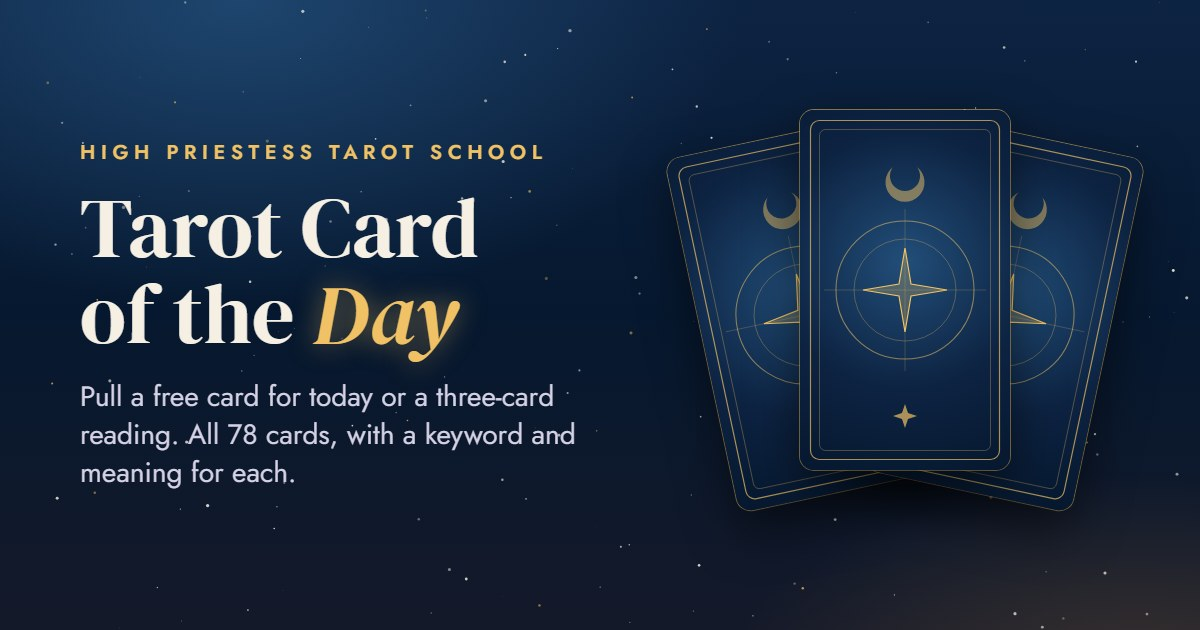
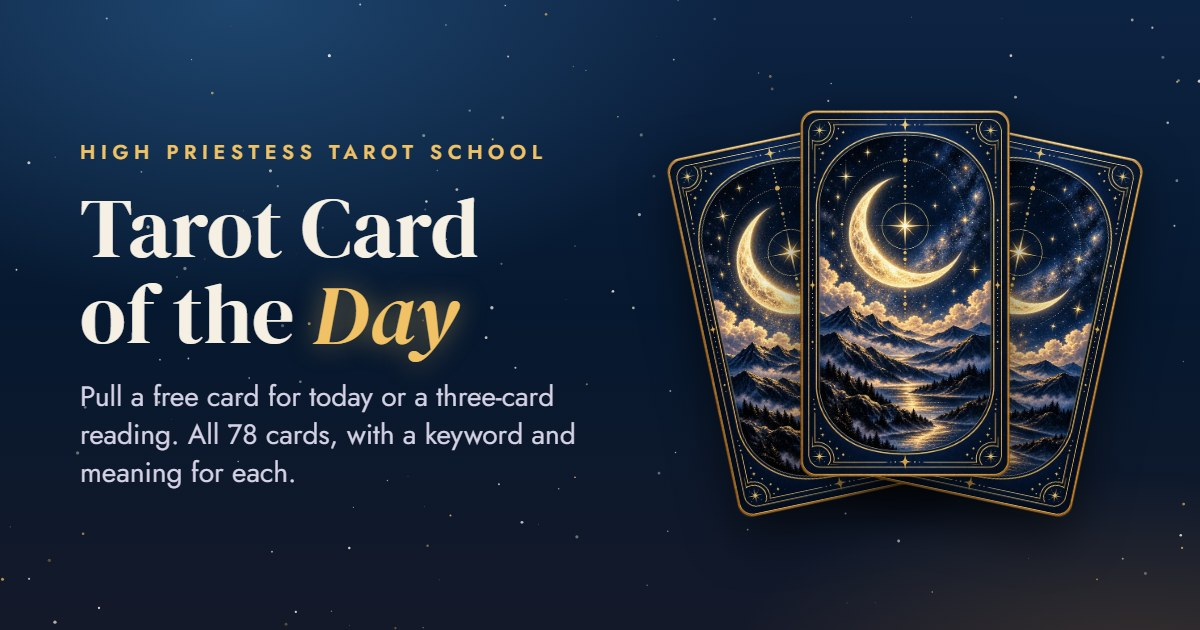
Card of the Day: Sunny's card back, new fronts

Changed region(s): [[0.555, 0.1508, 0.9558, 0.8444]]

diff --git a/hpts/card-of-the-day/index.html b/hpts/card-of-the-day/index.html
@@ -91,25 +91,28 @@ button:focus-visible, input:focus-visible, .card:focus-visible { outline: 2px so
 .slot-label { font-size: 13px; letter-spacing: .22em; text-transform: uppercase; color: var(--gold); font-weight: 600; }
 .single .slot { flex-basis: 250px; }
 
-.card { width: 100%; max-width: 100%; aspect-ratio: 7 / 12; perspective: 1200px; cursor: pointer; border-radius: 14px; }
+.card { width: 100%; max-width: 100%; aspect-ratio: 520 / 909; perspective: 1200px; cursor: pointer; border-radius: 6% / 3.4%; container-type: inline-size; }
 .card .inner { position: relative; width: 100%; height: 100%; transition: transform .9s cubic-bezier(.3, .7, .2, 1); transform-style: preserve-3d; }
 .card.flipped .inner { transform: rotateY(180deg); }
 .card.flipped { cursor: default; }
 .face, .back {
-  position: absolute; inset: 0; border-radius: 14px; backface-visibility: hidden; -webkit-backface-visibility: hidden;
-  box-shadow: 0 18px 40px rgba(0, 0, 0, .45), 0 0 0 1px rgba(240, 194, 101, .5);
+  position: absolute; inset: 0; border-radius: 6% / 3.4%; backface-visibility: hidden; -webkit-backface-visibility: hidden;
+  box-shadow: 0 18px 40px rgba(0, 0, 0, .5);
   overflow: hidden;
 }
-.back { background: radial-gradient(circle at 50% 42%, var(--sea), var(--deep) 55%, var(--night)); }
-.back svg, .face svg.frame { position: absolute; inset: 0; width: 100%; height: 100%; }
+.back img { width: 100%; height: 100%; display: block; user-select: none; -webkit-user-drag: none; }
 .card:not(.flipped):hover .inner { transform: translateY(-6px); }
-.face { transform: rotateY(180deg); background: radial-gradient(ellipse at 50% 30%, var(--sea), var(--deep) 50%, var(--night)); display: flex; }
-.face .art { position: absolute; inset: 0; display: flex; flex-direction: column; align-items: center; justify-content: space-between; padding: 12% 10% 9%; text-align: center; }
+.face { transform: rotateY(180deg); background: var(--night); }
+.face svg.frame { position: absolute; inset: 0; width: 100%; height: 100%; display: block; }
+.face .art { position: absolute; inset: 0; }
 .face.rev .art { transform: rotate(180deg); }
-.face .num { font-family: var(--serif); color: var(--gold); font-size: clamp(14px, 2.4vw, 22px); letter-spacing: .12em; }
-.face .sym { width: 52%; aspect-ratio: 1; color: var(--gold); }
-.face .sym svg { width: 100%; height: 100%; display: block; }
-.face .nm { font-family: var(--serif); color: var(--cream); font-size: clamp(13px, 2.3vw, 20px); line-height: 1.15; font-weight: 400; text-wrap: balance; }
+.face .art > * { position: absolute; left: 14%; right: 14%; margin: 0; text-align: center; }
+.face .num { top: 12.4%; font-family: var(--sans); font-weight: 500; font-size: 6.2cqw; letter-spacing: .32em; padding-left: .32em; color: var(--honey); text-transform: uppercase; }
+.face .sym { top: 22.6%; left: 31%; right: 31%; aspect-ratio: 1; }
+.face .sym svg { width: 100%; height: 100%; display: block; filter: drop-shadow(0 0 4cqw rgba(240, 194, 101, .35)); }
+.face .nm { top: 57.5%; font-family: var(--serif); font-size: 10cqw; line-height: 1.04; color: var(--cream); text-wrap: balance; }
+.face .kw { top: 72.5%; font-family: var(--serif); font-style: italic; font-size: 7.4cqw; line-height: 1.1; color: var(--honey); text-shadow: 0 0 3cqw rgba(240, 194, 101, .45); }
+.face .meta { top: 80.5%; font-family: var(--sans); font-weight: 500; font-size: 4.1cqw; letter-spacing: .16em; line-height: 1.5; text-transform: uppercase; color: var(--peri); text-wrap: balance; }
 .empty .card { cursor: default; opacity: .35; }
 
 .actions { display: flex; flex-direction: column; align-items: center; gap: 10px; }
@@ -189,6 +192,7 @@ footer a:hover { color: var(--cream); }
 </head>
 <body>
 <canvas id="sky" aria-hidden="true"></canvas>
+<svg width="0" height="0" style="position:absolute" aria-hidden="true"><defs><linearGradient id="hg" x1="0" y1="0" x2="1" y2="1"><stop offset="0" stop-color="#F7DE95"/><stop offset=".5" stop-color="#F0C265"/><stop offset="1" stop-color="#B07A35"/></linearGradient></defs></svg>
 <main class="wrap">
   <header>
     <div class="eyebrow">Free from High Priestess Tarot School</div>
@@ -327,15 +331,15 @@ const DECK = DATA.split("\n").map((line, i) => {
 });
 
 const ICONS = {
-  major: '<svg viewBox="0 0 100 100" fill="none" stroke="currentColor" stroke-width="1.6"><circle cx="50" cy="50" r="44" opacity=".45"/><circle cx="50" cy="50" r="33" opacity=".3"/><path d="M50 10 L56 44 L90 50 L56 56 L50 90 L44 56 L10 50 L44 44 Z" fill="currentColor" fill-opacity=".18"/><circle cx="50" cy="50" r="3" fill="currentColor"/></svg>',
-  wands: '<svg viewBox="0 0 100 100" fill="none" stroke="currentColor" stroke-width="1.8" stroke-linecap="round"><path d="M38 90 L62 12"/><path d="M57 28 C66 22 72 24 74 30 C66 34 61 33 57 28 Z" fill="currentColor" fill-opacity=".25"/><path d="M50 52 C41 47 35 50 34 56 C42 59 47 57 50 52 Z" fill="currentColor" fill-opacity=".25"/><path d="M44 70 C52 66 58 68 59 74 C52 77 47 75 44 70 Z" fill="currentColor" fill-opacity=".25"/><circle cx="62" cy="12" r="3" fill="currentColor"/></svg>',
-  cups: '<svg viewBox="0 0 100 100" fill="none" stroke="currentColor" stroke-width="1.8" stroke-linejoin="round"><path d="M26 18 H74 C74 44 64 56 50 56 C36 56 26 44 26 18 Z" fill="currentColor" fill-opacity=".18"/><path d="M50 56 V78"/><path d="M34 86 C38 79 62 79 66 86 Z" fill="currentColor" fill-opacity=".25"/><path d="M34 27 C40 31 60 31 66 27" opacity=".6"/></svg>',
-  swords: '<svg viewBox="0 0 100 100" fill="none" stroke="currentColor" stroke-width="1.8" stroke-linejoin="round" stroke-linecap="round"><path d="M50 8 L56 22 V66 H44 V22 Z" fill="currentColor" fill-opacity=".18"/><path d="M30 66 H70"/><path d="M50 66 V84"/><circle cx="50" cy="89" r="4" fill="currentColor" fill-opacity=".4"/><path d="M50 26 V60" opacity=".5"/></svg>',
-  pentacles: '<svg viewBox="0 0 100 100" fill="none" stroke="currentColor" stroke-width="1.8" stroke-linejoin="round"><circle cx="50" cy="50" r="40" fill="currentColor" fill-opacity=".1"/><circle cx="50" cy="50" r="34" opacity=".5"/><path d="M50 18 L69 76 L20 40 H80 L31 76 Z"/></svg>'
+  major: '<svg viewBox="0 0 100 100"><path fill="url(#hg)" d="M57 10A41 41 0 1 0 90 74A33 33 0 1 1 57 10Z"/><path fill="#F5EFE4" d="M64 30L67 45L82 48L67 51L64 66L61 51L46 48L61 45Z"/><circle cx="64" cy="48" r="13" fill="none" stroke="#F0C265" stroke-width="1"/></svg>',
+  wands: '<svg viewBox="0 0 100 100"><path fill="url(#hg)" d="M35 93L41 95L65 16L59 14Z"/><path fill="#F5EFE4" d="M62 3L67 12L62 21L57 12Z"/><path fill="url(#hg)" d="M58 33C67 25 76 27 78 34C70 39 63 38 58 33Z"/><path fill="url(#hg)" d="M50 58C40 52 32 55 31 62C40 66 46 64 50 58Z"/><path fill="url(#hg)" d="M45 76C54 71 61 73 62 79C55 83 49 81 45 76Z"/></svg>',
+  cups: '<svg viewBox="0 0 100 100"><path fill="url(#hg)" d="M22 14H78C78 46 65 59 50 59C35 59 22 46 22 14Z"/><path fill="none" stroke="#0D2342" stroke-width="2.4" d="M27 24C38 29 62 29 73 24"/><path fill="url(#hg)" d="M46 58H54V77H46Z"/><path fill="url(#hg)" d="M28 90C31 79 69 79 72 90Z"/><path fill="#F5EFE4" d="M50 32L52 39L59 41L52 43L50 50L48 43L41 41L48 39Z"/></svg>',
+  swords: '<svg viewBox="0 0 100 100"><path fill="url(#hg)" d="M50 4L58 18V65H42V18Z"/><path fill="none" stroke="#0D2342" stroke-width="2" d="M50 20V61"/><path fill="url(#hg)" d="M24 64Q50 70 76 64L76 71Q50 77 24 71Z"/><path fill="url(#hg)" d="M46 73H54V88H46Z"/><circle cx="50" cy="92.5" r="5.5" fill="#F5EFE4"/></svg>',
+  pentacles: '<svg viewBox="0 0 100 100"><circle cx="50" cy="50" r="42" fill="url(#hg)"/><circle cx="50" cy="50" r="35" fill="#0D2342"/><path fill="none" stroke="#F0C265" stroke-width="3.2" stroke-linejoin="round" d="M50 18L68.8 75.9L19.6 40.1H80.4L31.2 75.9Z"/><circle cx="50" cy="50" r="4" fill="#F5EFE4"/></svg>'
 };
 
-const FRAME = '<svg class="frame" viewBox="0 0 140 240" preserveAspectRatio="none" fill="none" stroke="#F0C265" stroke-width=".8"><rect x="7" y="7" width="126" height="226" rx="6" opacity=".7"/><path d="M18 226 V70 A52 52 0 0 1 122 70 V226 Z" opacity=".4"/></svg>';
-const BACK = '<svg viewBox="0 0 140 240" preserveAspectRatio="xMidYMid slice" fill="none" stroke="#F0C265"><rect x="7" y="7" width="126" height="226" rx="6" stroke-width=".8" opacity=".7"/><rect x="13" y="13" width="114" height="214" rx="4" stroke-width=".5" opacity=".4"/><circle cx="70" cy="120" r="46" stroke-width=".7" opacity=".55"/><circle cx="70" cy="120" r="34" stroke-width=".5" opacity=".4"/><path d="M70 66 V174 M16 120 H124" stroke-width=".4" opacity=".35"/><path d="M70 92 L74 116 L98 120 L74 124 L70 148 L66 124 L42 120 L66 116 Z" fill="#F0C265" fill-opacity=".25" stroke-width=".8"/><path d="M78 38 A13 13 0 1 1 62 38 A10 10 0 1 0 78 38 Z" fill="#F0C265" fill-opacity=".5" stroke="none"/><path d="M70 196 l2 6 l6 2 l-6 2 l-2 6 l-2 -6 l-6 -2 l6 -2 Z" fill="#F0C265" stroke="none" opacity=".7"/></svg>';
+const FRAME = '<svg class="frame" viewBox="0 0 520 909" preserveAspectRatio="none" aria-hidden="true"><defs><linearGradient id="rim" x1="0" y1="0" x2="1" y2="1"><stop offset="0" stop-color="#F5D98C"/><stop offset=".35" stop-color="#C58F46"/><stop offset=".6" stop-color="#F0C265"/><stop offset="1" stop-color="#9A6A2C"/></linearGradient><radialGradient id="win" cx=".5" cy=".36" r=".75"><stop offset="0" stop-color="#2B5C8A"/><stop offset=".45" stop-color="#0D2342"/><stop offset="1" stop-color="#06182F"/></radialGradient></defs><rect width="520" height="909" fill="#0A1E3A"/><rect x="4.5" y="4.5" width="511" height="900" rx="28" fill="none" stroke="url(#rim)" stroke-width="9"/><rect x="28" y="28" width="464" height="853" rx="3" fill="none" stroke="#F0C265" stroke-opacity=".6" stroke-width="2"/><g fill="none" stroke="#F0C265" stroke-opacity=".7" stroke-width="2"><path d="M72 28A44 44 0 0 1 28 72"/><path d="M448 28A44 44 0 0 0 492 72"/><path d="M72 881A44 44 0 0 0 28 837"/><path d="M448 881A44 44 0 0 1 492 837"/></g><rect x="62" y="86" width="396" height="737" rx="122" fill="url(#win)" stroke="#F0C265" stroke-width="3"/><rect x="73" y="97" width="374" height="715" rx="112" fill="none" stroke="#F0C265" stroke-opacity=".3" stroke-width="1.5"/><g fill="none" stroke="#F0C265" stroke-linecap="round" stroke-width="3.2" stroke-dasharray="0 13" opacity=".6"><circle cx="260" cy="317" r="132"/><path d="M260 100V170"/><path d="M260 466V500"/></g><g fill="#F5EFE4"><circle cx="234" cy="681" r="1.2" opacity="0.87"/><circle cx="304" cy="512" r="1.2" opacity="0.67"/><circle cx="225" cy="784" r="1.2" opacity="0.66"/><circle cx="274" cy="504" r="1.6" opacity="0.41"/><circle cx="123" cy="601" r="1.2" opacity="0.69"/><circle cx="206" cy="754" r="2.8" opacity="0.37"/><circle cx="317" cy="638" r="2.2" opacity="0.54"/><circle cx="287" cy="580" r="2.8" opacity="0.51"/><circle cx="221" cy="571" r="1.2" opacity="0.87"/><circle cx="211" cy="532" r="2.8" opacity="0.38"/><circle cx="243" cy="489" r="1.6" opacity="0.80"/><circle cx="391" cy="771" r="1.6" opacity="0.40"/><circle cx="141" cy="564" r="1.2" opacity="0.62"/><circle cx="91" cy="399" r="2.2" opacity="0.69"/><circle cx="382" cy="766" r="1.2" opacity="0.60"/><circle cx="386" cy="767" r="2.8" opacity="0.57"/></g><path fill="#F0C265" d="M44 32L46.4 41.6L56 44L46.4 46.4L44 56L41.6 46.4L32 44L41.6 41.6ZM476 32L478.4 41.6L488 44L478.4 46.4L476 56L473.6 46.4L464 44L473.6 41.6ZM44 853L46.4 862.6L56 865L46.4 867.4L44 877L41.6 867.4L32 865L41.6 862.6ZM476 853L478.4 862.6L488 865L478.4 867.4L476 877L473.6 867.4L464 865L473.6 862.6ZM260 8L264.0 24.0L280 28L264.0 32.0L260 48L256.0 32.0L240 28L256.0 24.0ZM260 861L264.0 877.0L280 881L264.0 885.0L260 901L256.0 885.0L240 881L256.0 877.0ZM28 443L30.2 451.8L39 454L30.2 456.2L28 465L25.8 456.2L17 454L25.8 451.8ZM492 443L494.2 451.8L503 454L494.2 456.2L492 465L489.8 456.2L481 454L489.8 451.8ZM118 163L119.4 168.6L125 170L119.4 171.4L118 177L116.6 171.4L111 170L116.6 168.6ZM402 632L403.6 638.4L410 640L403.6 641.6L402 648L400.4 641.6L394 640L400.4 638.4ZM398 185L399.0 189.0L403 190L399.0 191.0L398 195L397.0 191.0L393 190L397.0 189.0ZM126 694L127.2 698.8L132 700L127.2 701.2L126 706L124.8 701.2L120 700L124.8 698.8Z"/></svg>';
+const BACK = '<img src="back.webp" alt="" draggable="false">';
 
 const POSITIONS = { day: ["Today"], three: ["Past", "Present", "Future"] };
 const $ = id => document.getElementById(id);
@@ -361,8 +365,10 @@ function shuffledDeck() {
 }
 
 function faceHTML(card, reversed) {
+  const meta = card.sign === "N/A" ? card.element : card.element + " \u00B7 " + card.sign;
   return '<div class="face' + (reversed ? " rev" : "") + '">' + FRAME +
-    '<div class="art"><div class="num">' + card.rank + '</div><div class="sym">' + ICONS[card.suit] + '</div><div class="nm">' + card.name + '</div></div></div>';
+    '<div class="art"><p class="num">' + card.rank + '</p><div class="sym">' + ICONS[card.suit] + '</div>' +
+    '<p class="nm">' + card.name + '</p><p class="kw">' + (reversed ? card.revKey : card.keyword) + '</p><p class="meta">' + meta + '</p></div></div>';
 }
 
 function renderTable() {
